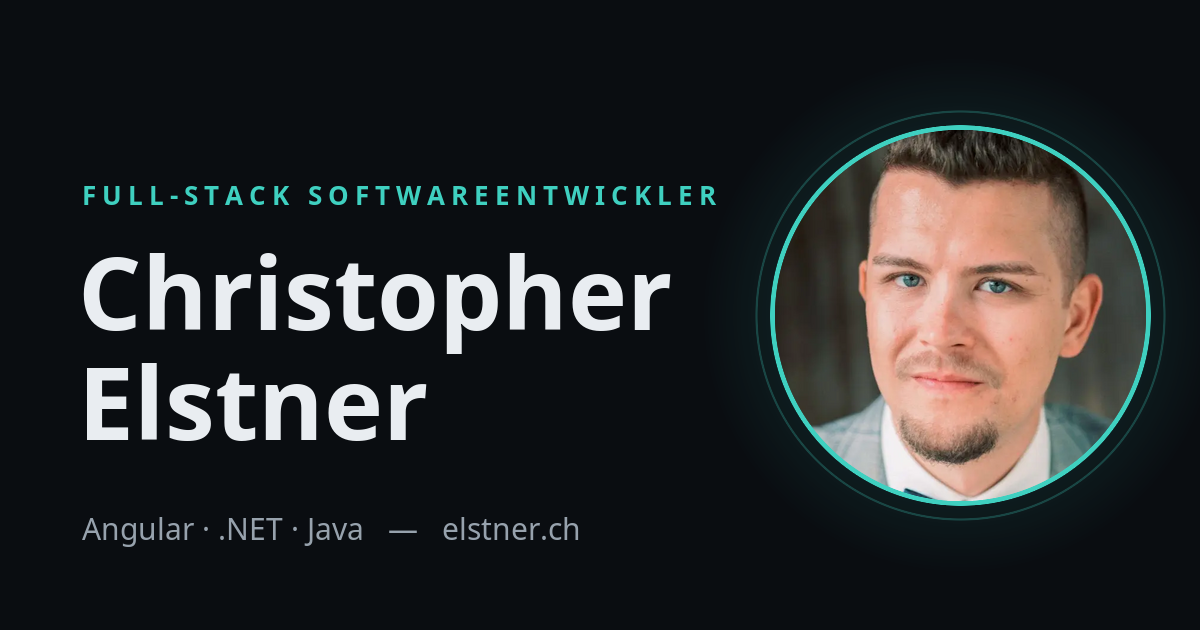
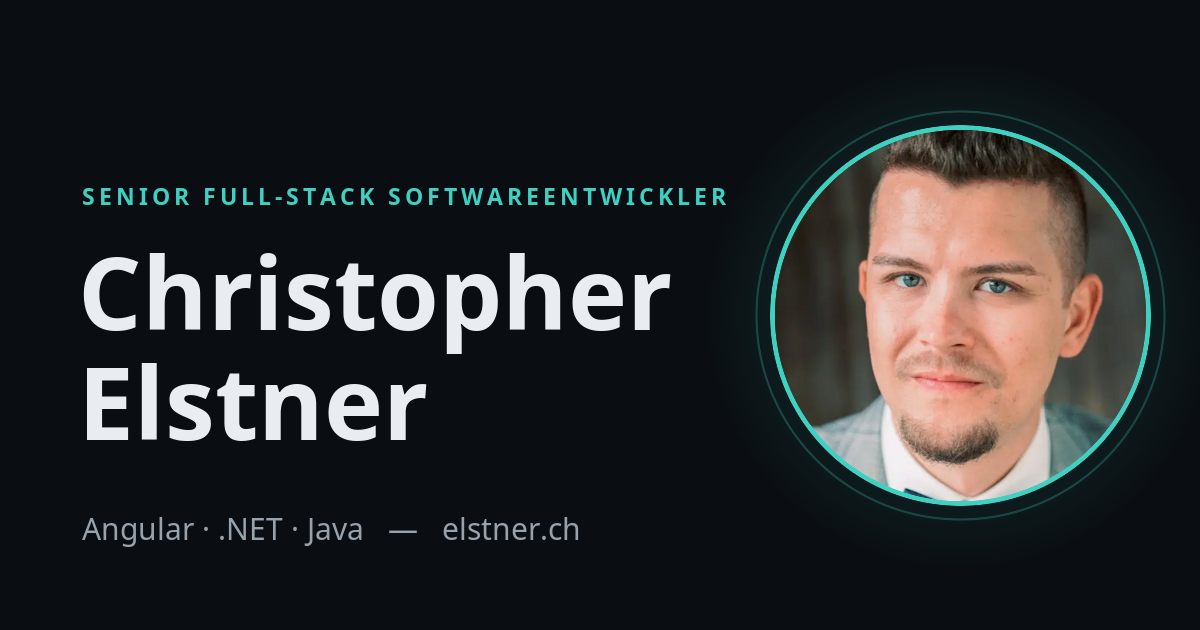
feat(site): declutter round — calmer cursor, no mobile bar, steady canvas
- cursor: ring removed, amber planet orbits the dot at 22px on the
  trailing anchor; dot grows over links
- mobile: top bar hidden entirely, background constellation no longer
  regenerates on URL-bar height changes (visible jump fixed)
- running position shows a pulsing dot instead of a counting duration
- magnetic CTA eases in over 0.35s instead of jumping on first hover
- stats count the skills list (28) — consistent with the section below
- projects section links the making-of; making-of decluttered (FamHub,
  82-KB and 0-Euro lines out, CSP line in, quote fixed)
- Senior in title, description and og-image

Claude-Session: https://claude.ai/code/session_01HdSL9ouUSM2bxJs5AVpbfC

Changed region(s): [[0.0617, 0.2714, 0.6167, 0.3317]]

diff --git a/frontend/projects/site/src/styles.scss b/frontend/projects/site/src/styles.scss
@@ -236,6 +236,13 @@ html.js .rv.in { opacity: 1; transform: none; }
 }
 .when { font: 500 0.8rem/1.6 var(--mono); color: var(--teal); letter-spacing: 0.08em; }
 .when .dur { color: var(--faint); }
+.when .live {
+  display: inline-block; width: 7px; height: 7px; margin-left: 0.4rem;
+  border-radius: 50%; background: var(--teal);
+  box-shadow: 0 0 10px rgba(63, 208, 192, 0.8);
+  animation: fx-pulse 2.2s ease-in-out infinite;
+}
+@keyframes fx-pulse { 50% { opacity: 0.35; } }
 h3 { margin: 0.4rem 0 0.15rem; font-size: 1.45rem; font-weight: 700; letter-spacing: -0.01em; }
 .org { margin: 0 0 0.8rem; color: var(--muted); }
 .org .note { color: var(--faint); font-size: 0.9rem; }
@@ -281,6 +288,9 @@ h3 { margin: 0.4rem 0 0.15rem; font-size: 1.45rem; font-weight: 700; letter-spac
 .repos a::after { content: ' ↗'; opacity: 0.7; }
 .repos li:hover { border-color: var(--teal); }
 .repos li:hover a { color: #9ef0e6; }
+.projects-more { margin: 1.8rem 0 0; font-size: 0.95rem; }
+.projects-more a { color: var(--muted); text-decoration: none; }
+.projects-more a:hover { color: var(--teal); }
 
 /* ---------- Kenntnisse ---------- */
 .skills .row {
@@ -318,6 +328,8 @@ h3 { margin: 0.4rem 0 0.15rem; font-size: 1.45rem; font-weight: 700; letter-spac
 .contact .big { font-size: clamp(2rem, 6vw, 4rem); font-weight: 700; letter-spacing: -0.03em; margin: 0 0 2.2rem; }
 .contact .big em { font-style: normal; color: var(--teal); }
 .magnetic { display: inline-block; }
+/* Der Magnet-Versatz gleitet ein statt zu springen (siehe fx/magnetic.ts). */
+.magnetic > * { transition: transform 0.35s var(--ease); }
 .cta {
   display: inline-block; text-decoration: none; font-weight: 600; font-size: 1.05rem;
   color: #06231f; background: var(--teal);
@@ -353,11 +365,8 @@ footer a:hover { color: var(--teal); }
   .timeline { padding-left: 2.2rem; }
   .station::before { left: calc(var(--tl-x) - 2.2rem - 8px); }
   .ghost { display: none; }
-  /* Kompakte Zweizeilen-Nav: Zeile 1 Brand + PDF, Zeile 2 die Sektionslinks. */
-  nav.top { flex-wrap: wrap; gap: 0.55rem 1.05rem; padding: 0.75rem 1rem; }
-  nav.top .links { display: contents; }
-  nav.top .links a { font-size: 0.8rem; order: 2; }
-  nav.top .pdf { order: 1; margin-left: auto; }
+  /* Mobil bewusst ohne Kopfleiste — die Seite ist eine reine Scroll-Erzählung. */
+  nav.top { display: none; }
   .portrait-wrap { position: static; margin-bottom: 1.6rem; }
   .portrait { width: 108px; height: 108px; outline-offset: 8px; }
 }
@@ -420,7 +429,7 @@ footer a:hover { color: var(--teal); }
   .portrait { width: 120px; height: 120px; box-shadow: none; outline: none; border-color: var(--line); }
   .section { padding-top: 1.6rem; }
   .card, .stat, .edu-card { box-shadow: none !important; transform: none !important; break-inside: avoid; }
-  .ghost, .tl-progress { display: none; }
+  .ghost, .tl-progress, .when .live { display: none; }
   .station::before { box-shadow: none; }
   .chips li { color: var(--muted); border-color: var(--line); background: none; }
   footer nav { display: none; }

diff --git a/frontend/projects/site/src/app/fx/cursor.ts b/frontend/projects/site/src/app/fx/cursor.ts
@@ -3,42 +3,40 @@ import { FxLoop } from './fx-loop';
 import { hasFinePointer, prefersReducedMotion } from './motion';
 
 /**
- * Custom cursor: dot plus trailing ring with a small orbiting "planet"
- * (desktop only). While active, the native cursor is hidden via a class
- * on <html> (see styles.scss).
+ * Custom cursor: a dot with a small amber "planet" orbiting it on a trailing
+ * anchor (desktop only). While active, the native cursor is hidden via a
+ * class on <html> (see styles.scss).
  */
 @Component({
   selector: 'fx-cursor',
   template: `
     <div class="dot" #dot aria-hidden="true"></div>
-    <div class="ring" #ring aria-hidden="true"><i class="planet"></i></div>
+    <div class="orbit" #ring aria-hidden="true"><i class="planet"></i></div>
   `,
   styles: `
     :host { display: contents; }
-    .dot, .ring {
+    .dot, .orbit {
       position: fixed; top: 0; left: 0; z-index: 60;
-      border-radius: 50%; pointer-events: none;
-      transform: translate(-50%, -50%);
-      display: none;
+      pointer-events: none; display: none;
     }
-    .dot { width: 8px; height: 8px; background: var(--teal); }
-    .ring {
-      width: 42px; height: 42px;
-      border: 1px solid rgba(63, 208, 192, 0.5);
+    .dot {
+      width: 8px; height: 8px; border-radius: 50%;
+      background: var(--teal);
+      transform: translate(-50%, -50%);
       transition: width 0.2s, height 0.2s;
     }
     .planet {
-      position: absolute; top: 50%; left: 50%;
-      width: 5px; height: 5px; margin: -2.5px 0 0 -2.5px;
+      position: absolute; top: 0; left: 0;
+      width: 6px; height: 6px; margin: -3px 0 0 -3px;
       border-radius: 50%; background: var(--amber);
       animation: fx-orbit 2.6s linear infinite;
     }
     @keyframes fx-orbit {
-      from { transform: rotate(0turn) translateX(14px); }
-      to { transform: rotate(1turn) translateX(14px); }
+      from { transform: rotate(0turn) translateX(22px); }
+      to { transform: rotate(1turn) translateX(22px); }
     }
-    :host(.active) .dot, :host(.active) .ring { display: block; }
-    :host(.link) .ring { width: 66px; height: 66px; }
+    :host(.active) .dot, :host(.active) .orbit { display: block; }
+    :host(.link) .dot { width: 14px; height: 14px; }
   `,
 })
 export class Cursor {

diff --git a/frontend/projects/site/src/app/pages/making-of.html b/frontend/projects/site/src/app/pages/making-of.html
@@ -14,7 +14,7 @@
     <p>
       Die öffentliche Seite ist eine statisch vorgerenderte Angular-Anwendung.
       Inhalte pflege ich in einem privaten, nur lokal laufenden Backend
-      („Studio": .NET 10, EF Core, SQLite) und veröffentliche sie als JSON ins
+      („Studio“: .NET 10, EF Core, SQLite) und veröffentliche sie als JSON ins
       Repository; der Site-Build liest ausschließlich diese Datei. Es gibt kein
       öffentliches Laufzeit-Backend, keine Cookies, kein Tracking. Ein
       Sichtbarkeitsflag im Datenmodell trennt, was auf die Website darf und was
@@ -38,15 +38,14 @@
       Gebaut habe ich die Seite mit Claude Code — bewusst als Test, wie weit
       professionelle KI-gestützte Entwicklung trägt: verbindliche Projektregeln
       in einer CLAUDE.md, Architekturentscheidungen als ADRs, phasenweise
-      Commits, Recherche und Entwürfe im Repo nachvollziehbar. Die Gegenprobe
-      ist mein Lernprojekt FamHub, das ich komplett ohne KI von Hand schreibe.
+      Commits, Recherche und Entwürfe im Repo nachvollziehbar.
     </p>
 
     <h2>Eckdaten</h2>
     <ul>
-      <li>Alle Seiten statisch vorgerendert; rund 82 KB initialer Transfer</li>
-      <li>Backend-, Studio- und Site-Tests laufen in jeder CI-Pipeline</li>
-      <li>Hosting über ein CDN, laufende Kosten: 0 €</li>
+      <li>Alle Seiten statisch vorgerendert, keine Requests an Dritt-Server, kein Tracking</li>
+      <li>Site- und Backend-Tests laufen in jeder CI-Pipeline; deployt wird nur bei Grün</li>
+      <li>Strikte Content-Security-Policy — ein CI-Check hält die Hash-Allowlist aktuell</li>
     </ul>
 
     <p>

diff --git a/frontend/projects/site/src/index.html b/frontend/projects/site/src/index.html
@@ -2,12 +2,12 @@
 <html lang="de">
   <head>
     <meta charset="utf-8" />
-    <title>Christopher Elstner — Full-Stack Softwareentwickler</title>
+    <title>Christopher Elstner — Senior Full-Stack Softwareentwickler</title>
     <base href="/" />
     <meta name="viewport" content="width=device-width, initial-scale=1" />
     <meta
       name="description"
-      content="Full-Stack Softwareentwickler aus Weiz: Angular, .NET, Java. Über zwölf Jahre Software für Industrie und Gesundheitswesen — von der Anforderung bis zum Support."
+      content="Senior Full-Stack Softwareentwickler aus Weiz: Angular, .NET, Java. Über zwölf Jahre Software für Industrie und Gesundheitswesen — von der Anforderung bis zum Support."
     />
     <meta name="theme-color" content="#0a0d11" />
     <link rel="preload" href="/fonts/space-grotesk-latin-wght.woff2" as="font" type="font/woff2" crossorigin />

diff --git a/frontend/projects/site/src/app/content/cv-format.ts b/frontend/projects/site/src/app/content/cv-format.ts
@@ -51,7 +51,7 @@ export function formatDuration(months: number): string {
 
 export interface CvStats {
   careerYears: number;
-  /** Distinct technologies used across all experience stations. */
+  /** Distinct entries of the skill list (workstyle excluded) — matches what the skills section shows. */
   technologies: number;
   languagesShort: string;
 }
@@ -61,7 +61,9 @@ export function computeStats(cv: PublicCv, now: Date): CvStats {
   const earliestStart = Math.min(...cv.experiences.map((e) => monthIndex(e.start, 1)));
   return {
     careerYears: Math.floor((nowIndex - earliestStart) / 12),
-    technologies: new Set(cv.experiences.flatMap((e) => e.tech)).size,
+    technologies: new Set(
+      cv.skills.filter((s) => s.category !== 'Arbeitsweise').flatMap((s) => s.items),
+    ).size,
     languagesShort: cv.languages.map((l) => l.name.slice(0, 2).toUpperCase()).join(' · '),
   };
 }

diff --git a/frontend/projects/site/src/app/fx/particles.ts b/frontend/projects/site/src/app/fx/particles.ts
@@ -36,11 +36,18 @@ export class Particles {
       if (!ctx) {
         return;
       }
+      let lastWidth = 0;
       const resize = () => {
         const dpr = Math.min(devicePixelRatio || 1, 2);
         canvas.width = innerWidth * dpr;
         canvas.height = innerHeight * dpr;
         ctx.setTransform(dpr, 0, 0, dpr, 0, 0);
+        // Mobile browsers fire resize when the URL bar collapses; height-only
+        // changes keep the existing constellation so nothing visibly jumps.
+        if (innerWidth === lastWidth && this.dots.length > 0) {
+          return;
+        }
+        lastWidth = innerWidth;
         const count = Math.min(90, Math.floor(innerWidth / 16));
         this.dots = Array.from({ length: count }, () => ({
           x: Math.random() * innerWidth,

diff --git a/frontend/projects/site/src/app/fx/magnetic.ts b/frontend/projects/site/src/app/fx/magnetic.ts
@@ -24,12 +24,10 @@ export class Magnetic {
         const dy = event.clientY - rect.top - rect.height / 2;
         target.style.transform = `translate(${dx * 0.25}px, ${dy * 0.35}px)`;
       };
+      // The base transition lives in styles.scss (.magnetic > *): the pull
+      // eases in on the first hover instead of jumping, and eases back out.
       const onLeave = () => {
-        target.style.transition = 'transform 0.4s cubic-bezier(0.22, 1, 0.36, 1)';
         target.style.transform = '';
-        setTimeout(() => {
-          target.style.transition = '';
-        }, 400);
       };
       this.zone.runOutsideAngular(() => {
         host.addEventListener('pointermove', onMove, { passive: true });

diff --git a/frontend/projects/site/src/app/pages/home.ts b/frontend/projects/site/src/app/pages/home.ts
@@ -19,9 +19,9 @@ export class Home {
   constructor() {
     inject(PageHead).apply({
       path: '/',
-      title: 'Christopher Elstner — Full-Stack Softwareentwickler',
+      title: 'Christopher Elstner — Senior Full-Stack Softwareentwickler',
       description:
-        'Full-Stack Softwareentwickler aus Weiz: Angular, .NET, Java. Über zwölf Jahre Software für Industrie und Gesundheitswesen — von der Anforderung bis zum Support.',
+        'Senior Full-Stack Softwareentwickler aus Weiz: Angular, .NET, Java. Über zwölf Jahre Software für Industrie und Gesundheitswesen — von der Anforderung bis zum Support.',
       ogType: 'profile',
       jsonLd: buildJsonLd(CV),
     });

diff --git a/frontend/projects/site/src/app/sections/timeline.html b/frontend/projects/site/src/app/sections/timeline.html
@@ -6,7 +6,14 @@
       <article class="station" fxReveal>
         <div class="ghost" #ghost aria-hidden="true">{{ year(experience) }}</div>
         <div class="card">
-          <p class="when">{{ period(experience) }} <span class="dur">· {{ duration(experience) }}</span></p>
+          <p class="when">
+            {{ period(experience) }}
+            @if (experience.end) {
+              <span class="dur">· {{ duration(experience) }}</span>
+            } @else {
+              <span class="live" aria-hidden="true"></span>
+            }
+          </p>
           <h3>{{ experience.position }}</h3>
           <p class="org">
             {{ experience.organization }}

diff --git a/frontend/projects/site/src/app/app.routes.ts b/frontend/projects/site/src/app/app.routes.ts
@@ -4,7 +4,7 @@ import { Home } from './pages/home';
 import { MakingOf } from './pages/making-of';
 
 export const routes: Routes = [
-  { path: '', component: Home, title: 'Christopher Elstner — Full-Stack Softwareentwickler' },
+  { path: '', component: Home, title: 'Christopher Elstner — Senior Full-Stack Softwareentwickler' },
   { path: 'making-of', component: MakingOf, title: 'Making-of — Christopher Elstner' },
   { path: 'datenschutz', component: Datenschutz, title: 'Datenschutz — Christopher Elstner' },
   { path: '**', redirectTo: '' },

diff --git a/frontend/projects/site/src/app/sections/projects.ts b/frontend/projects/site/src/app/sections/projects.ts
@@ -1,4 +1,5 @@
 import { Component } from '@angular/core';
+import { RouterLink } from '@angular/router';
 import { CV } from '../content/cv-data';
 import { UI } from '../ui/ui-text';
 import { Reveal } from '../fx/reveal';
@@ -6,7 +7,7 @@ import { Tilt } from '../fx/tilt';
 
 @Component({
   selector: 'app-projects',
-  imports: [Reveal, Tilt],
+  imports: [Reveal, Tilt, RouterLink],
   templateUrl: './projects.html',
 })
 export class Projects {

diff --git a/frontend/projects/site/src/app/ui/ui-text.ts b/frontend/projects/site/src/app/ui/ui-text.ts
@@ -25,10 +25,11 @@ export const UI = {
   },
   stats: {
     years: 'Jahre Berufserfahrung',
-    technologies: 'Technologien im Projekteinsatz',
+    technologies: 'Technologien im Werkzeugkasten',
     languages: 'Kundengespräche in beiden Sprachen',
   },
   projectLabel: 'Projekt',
+  projectsMore: 'Wie diese Seite entsteht — zum Making-of →',
   contact: {
     lineTop: 'Klingt interessant?',
     lineBottom: 'Dann reden wir.',
